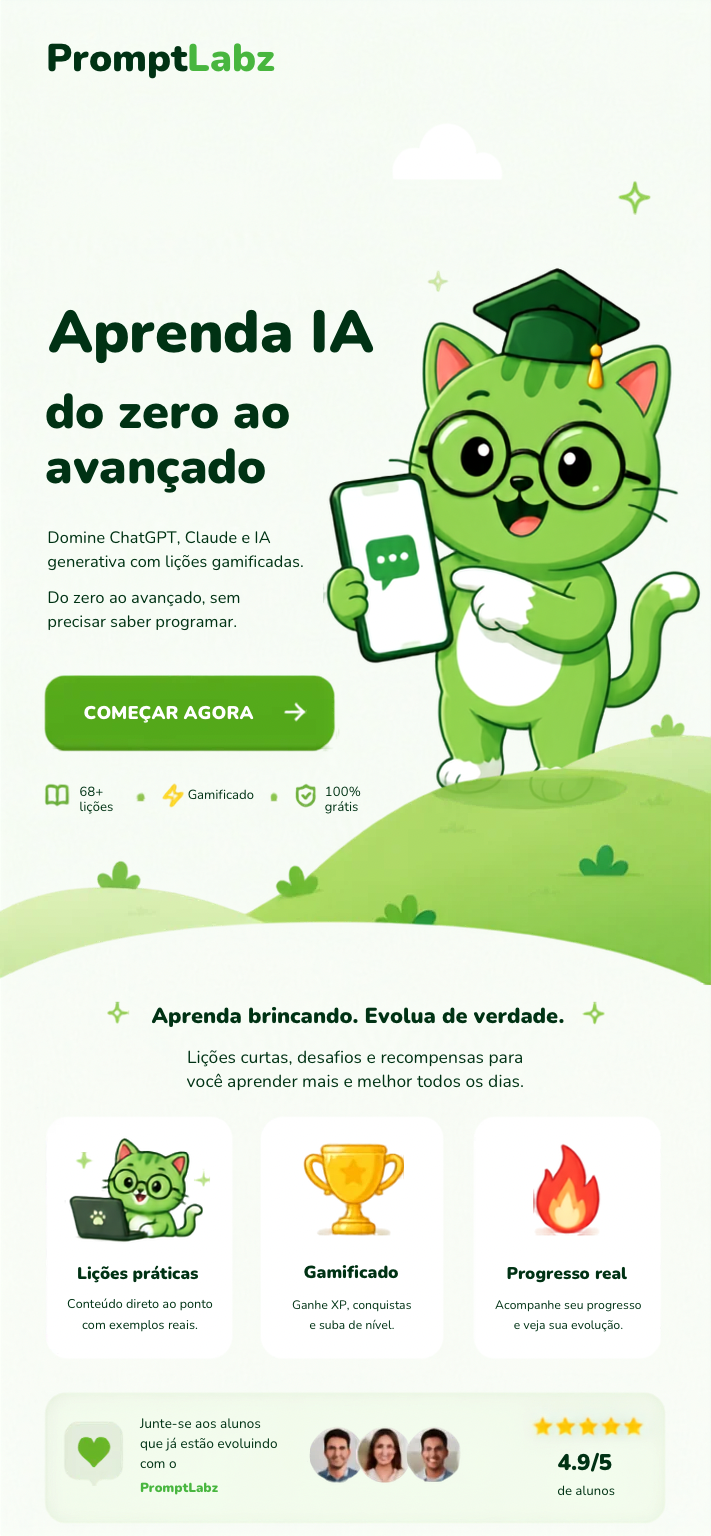
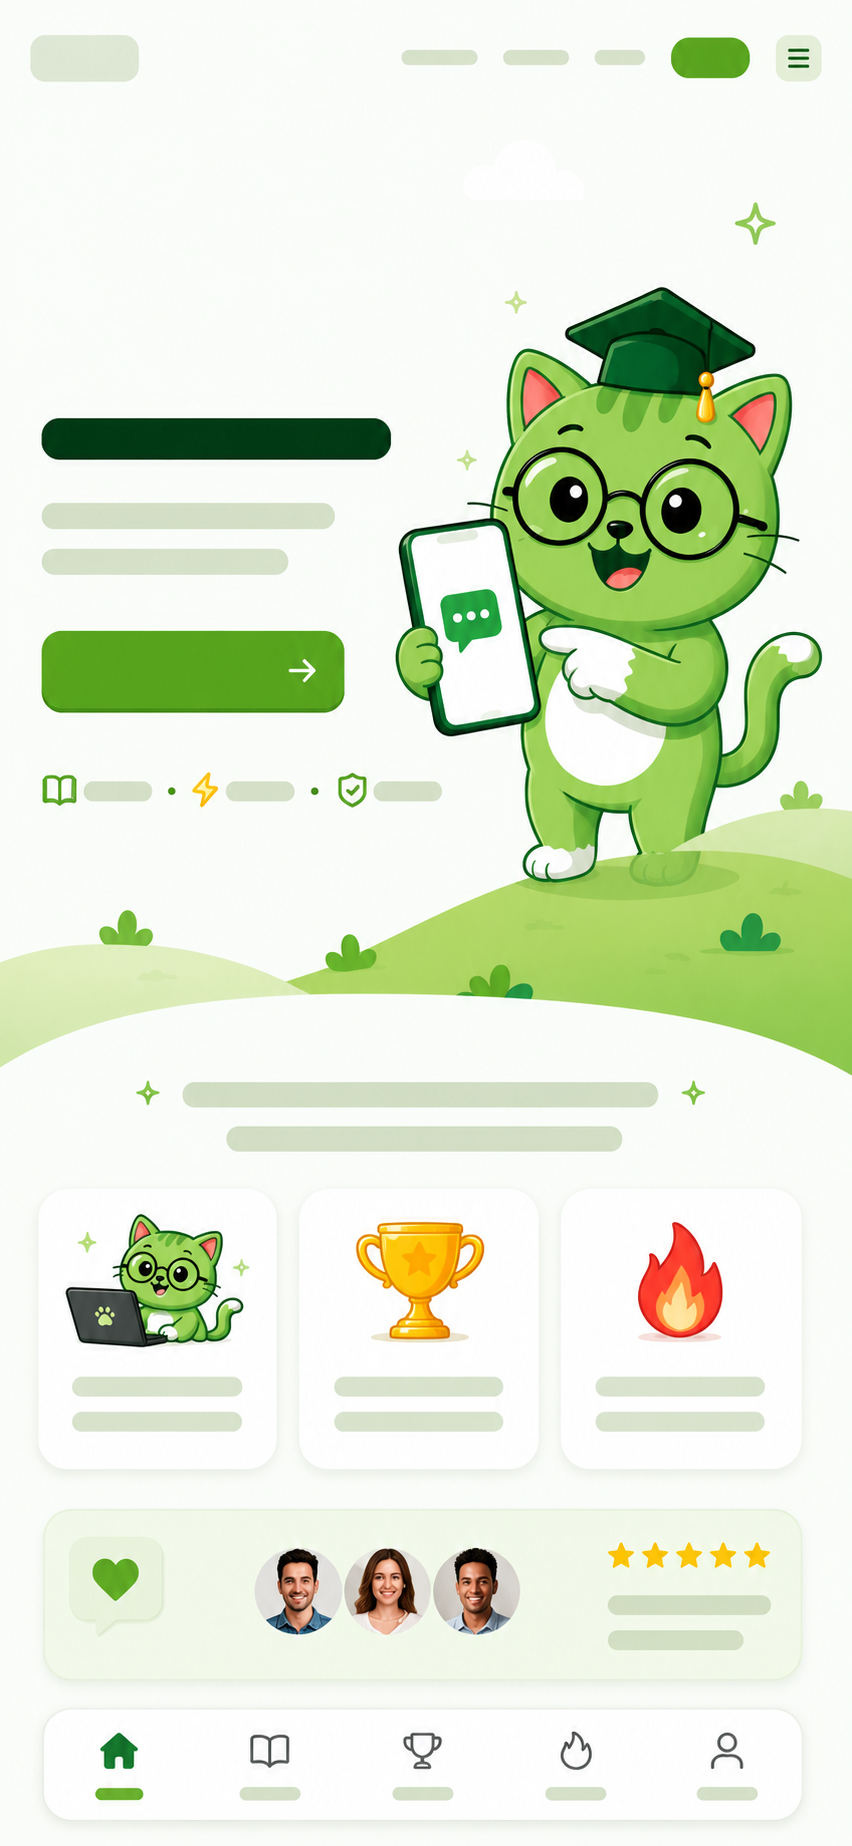
feat(hero): recalibrate text overlay coordinates to match background image
Measured pixel positions in background.png (852×1846px) and corrected
all percentage coordinates — title, subtitle, CTA, stats, section
headings, feature cards, and social proof now align with the
visual placeholder bars in the background image.

Claude-Session: https://claude.ai/code/session_01MmA92onAv2jPpDPzqgZEwd

diff --git a/src/components/HeroPage.tsx b/src/components/HeroPage.tsx
@@ -16,74 +16,115 @@ export default function HeroPage() {
     <div className="max-w-[430px] mx-auto overflow-hidden">
       <div className="relative [container-type:inline-size] font-[Nunito]">
         <img src="background.png" alt="" className="w-full h-full" />
-        <div className="absolute w-[32.6%] h-[3.01%] top-[2.26%] left-[6.5%]">
+
+        {/* Nav — PromptLabz logo */}
+        <div className="absolute w-[32.6%] h-[2.30%] top-[2.26%] left-[6.5%]">
           <div className="text-[5.45cqw] text-start text-[#003214] font-heavy">Prompt</div>
           <div className="text-[5.45cqw] text-start text-[#48b63f] font-heavy">Labz</div>
         </div>
-        <div className="absolute w-[52.67%] h-[4.56%] top-[19.34%] left-[6.75%]">
+
+        {/* Hero title — barra dark green medida em 22.70% */}
+        <div className="absolute w-[52.67%] h-[3.48%] top-[21.50%] left-[6.75%]">
           <div className="text-[8.30cqw] text-start text-[#003214] font-heavy">Aprenda IA</div>
         </div>
-        <div className="absolute w-[34.7%] h-[7.32%] top-[24.94%] left-[6.4%]">
+
+        {/* Hero subtitle — medido em 27.25% */}
+        <div className="absolute w-[34.7%] h-[5.60%] top-[25.50%] left-[6.4%]">
           <div className="text-[6.84cqw] text-start text-[#003214] font-heavy">do zero ao avançado</div>
         </div>
-        <div className="absolute w-[9.6%] h-[0.98%] top-[51.21%] left-[26.4%]">
-          <div className="text-[1.86cqw] text-start text-[#003214]">Gamificado</div>
+
+        {/* Description 1 */}
+        <div className="absolute w-[36.4%] h-[2.14%] top-[30.20%] left-[6.7%]">
+          <div className="text-[2.32cqw] text-start text-[#003214]">Domine ChatGPT, Claude e IA generativa com lições gamificadas.</div>
         </div>
-        <div className="absolute w-[59.1%] h-[1.67%] top-[65.26%] left-[20.8%]">
-          <div className="text-[3.05cqw] text-center text-[#003214] font-heavy">Aprenda brincando. Evolua de verdade.</div>
+
+        {/* Description 2 */}
+        <div className="absolute w-[27.5%] h-[2.14%] top-[32.70%] left-[6.7%]">
+          <div className="text-[2.32cqw] text-start text-[#003214]">Do zero ao avançado, sem precisar saber programar.</div>
         </div>
-        <div className="absolute w-[50.8%] h-[2.9%] top-[68.2%] left-[24.6%]">
-          <div className="text-[2.45cqw] text-center text-[#003214]">Lições curtas, desafios e recompensas para você aprender mais e melhor
-            todos os dias.</div>
-        </div>
-        <div className="absolute w-[17.4%] h-[1.28%] top-[82.21%] left-[10.7%]">
-          <div className="text-[2.39cqw] text-center text-[#003214] font-heavy">Lições práticas</div>
-        </div>
-        <div className="absolute w-[20.6%] h-[2.32%] top-[84.39%] left-[9.4%]">
-          <div className="text-[1.79cqw] text-center text-[#003214]">Conteúdo direto ao ponto com exemplos reais.</div>
-        </div>
-        <div className="absolute w-[13.4%] h-[1.34%] top-[82.18%] left-[42.7%]">
-          <div className="text-[2.45cqw] text-center text-[#003214] font-heavy">Gamificado</div>
-        </div>
-        <div className="absolute w-[17.4%] h-[2.21%] top-[84.45%] left-[40.8%]">
-          <div className="text-[1.72cqw] text-center text-[#003214]">Ganhe XP, conquistas e suba de nível.</div>
-        </div>
-        <div className="absolute w-[17.1%] h-[1.28%] top-[82.21%] left-[71.2%]">
-          <div className="text-[2.39cqw] text-center text-[#003214] font-heavy">Progresso real</div>
-        </div>
-        <div className="absolute w-[21.1%] h-[2.21%] top-[84.45%] left-[69.4%]">
-          <div className="text-[1.72cqw] text-center text-[#003214]">Acompanhe seu progresso e veja sua evolução.</div>
-        </div>
-        <div className="absolute w-[19.4%] h-[3.64%] top-[92.13%] left-[19.7%]">
-          <div className="text-[1.92cqw] text-start text-[#003214]">Junte-se aos alunos que já estão evoluindo com o</div>
-        </div>
+
+        {/* CTA button — medido em 34.18% */}
         <div
-          className="absolute w-[24.4%] h-[1.39%] top-[45.76%] left-[11.8%] cursor-pointer"
+          className="absolute w-[24.4%] h-[1.06%] top-[35.20%] left-[11.8%] cursor-pointer"
           onClick={handleCTA}
           role="button"
           aria-label={hasAccount ? 'Continuar' : 'Começar agora'}
         >
           <div className="text-[2.59cqw] text-start text-[#ffffff] font-heavy">Começar agora</div>
         </div>
-        <div className="absolute w-[36.4%] h-[2.8%] top-[34.4%] left-[6.7%]">
-          <div className="text-[2.32cqw] text-start text-[#003214]">Domine ChatGPT, Claude e IA generativa com lições gamificadas.</div>
-        </div>
-        <div className="absolute w-[27.5%] h-[2.8%] top-[38.3%] left-[6.7%]">
-          <div className="text-[2.32cqw] text-start text-[#003214]">Do zero ao avançado, sem precisar saber programar.</div>
-        </div>
-        <div className="absolute w-[4.9%] h-[1.95%] top-[51.02%] left-[11.2%]">
+
+        {/* Stats — 68+ lições */}
+        <div className="absolute w-[4.9%] h-[1.49%] top-[40.00%] left-[11.2%]">
           <div className="text-[1.86cqw] text-start text-[#003214]">68+ lições</div>
         </div>
-        <div className="absolute w-[5.4%] h-[1.95%] top-[51.02%] left-[45.7%]">
+
+        {/* Stats — Gamificado */}
+        <div className="absolute w-[9.6%] h-[0.75%] top-[40.00%] left-[26.4%]">
+          <div className="text-[1.86cqw] text-start text-[#003214]">Gamificado</div>
+        </div>
+
+        {/* Stats — 100% grátis */}
+        <div className="absolute w-[5.4%] h-[1.49%] top-[40.00%] left-[45.7%]">
           <div className="text-[1.86cqw] text-start text-[#003214]">100% grátis</div>
         </div>
-        <div className="absolute w-[11.3%] h-[0.98%] top-[96.31%] left-[19.7%]">
+
+        {/* "Aprenda brincando" heading — medido em 43.34% */}
+        <div className="absolute w-[59.1%] h-[1.28%] top-[45.60%] left-[20.8%]">
+          <div className="text-[3.05cqw] text-center text-[#003214] font-heavy">Aprenda brincando. Evolua de verdade.</div>
+        </div>
+
+        {/* Sub-description */}
+        <div className="absolute w-[50.8%] h-[2.22%] top-[47.80%] left-[24.6%]">
+          <div className="text-[2.45cqw] text-center text-[#003214]">Lições curtas, desafios e recompensas para você aprender mais e melhor todos os dias.</div>
+        </div>
+
+        {/* Card 1 — Lições práticas title — medido ~62.57% */}
+        <div className="absolute w-[17.4%] h-[0.98%] top-[62.50%] left-[10.7%]">
+          <div className="text-[2.39cqw] text-center text-[#003214] font-heavy">Lições práticas</div>
+        </div>
+
+        {/* Card 1 — description */}
+        <div className="absolute w-[20.6%] h-[1.78%] top-[64.20%] left-[9.4%]">
+          <div className="text-[1.79cqw] text-center text-[#003214]">Conteúdo direto ao ponto com exemplos reais.</div>
+        </div>
+
+        {/* Card 2 — Gamificado title */}
+        <div className="absolute w-[13.4%] h-[1.02%] top-[62.50%] left-[42.7%]">
+          <div className="text-[2.45cqw] text-center text-[#003214] font-heavy">Gamificado</div>
+        </div>
+
+        {/* Card 2 — description */}
+        <div className="absolute w-[17.4%] h-[1.69%] top-[64.20%] left-[40.8%]">
+          <div className="text-[1.72cqw] text-center text-[#003214]">Ganhe XP, conquistas e suba de nível.</div>
+        </div>
+
+        {/* Card 3 — Progresso real title */}
+        <div className="absolute w-[17.1%] h-[0.98%] top-[62.50%] left-[71.2%]">
+          <div className="text-[2.39cqw] text-center text-[#003214] font-heavy">Progresso real</div>
+        </div>
+
+        {/* Card 3 — description */}
+        <div className="absolute w-[21.1%] h-[1.69%] top-[64.20%] left-[69.4%]">
+          <div className="text-[1.72cqw] text-center text-[#003214]">Acompanhe seu progresso e veja sua evolução.</div>
+        </div>
+
+        {/* Social proof — "Junte-se" medido em 74.59% */}
+        <div className="absolute w-[19.4%] h-[2.78%] top-[74.59%] left-[19.7%]">
+          <div className="text-[1.92cqw] text-start text-[#003214]">Junte-se aos alunos que já estão evoluindo com o</div>
+        </div>
+
+        {/* Social proof — PromptLabz link */}
+        <div className="absolute w-[11.3%] h-[0.75%] top-[77.70%] left-[19.7%]">
           <div className="text-[1.86cqw] text-start text-[#48b63f] font-heavy">PromptLabz</div>
         </div>
-        <div className="absolute w-[7.8%] h-[1.71%] top-[94.35%] left-[78.4%]">
+
+        {/* Rating 4.9/5 */}
+        <div className="absolute w-[7.8%] h-[1.30%] top-[75.60%] left-[78.4%]">
           <div className="text-[3.19cqw] text-center text-[#003214] font-heavy">4.9/5</div>
         </div>
-        <div className="absolute w-[8.3%] h-[0.98%] top-[96.51%] left-[78.3%]">
+
+        {/* Rating label */}
+        <div className="absolute w-[8.3%] h-[0.75%] top-[77.60%] left-[78.3%]">
           <div className="text-[1.86cqw] text-center text-[#003214]">de alunos</div>
         </div>
       </div>